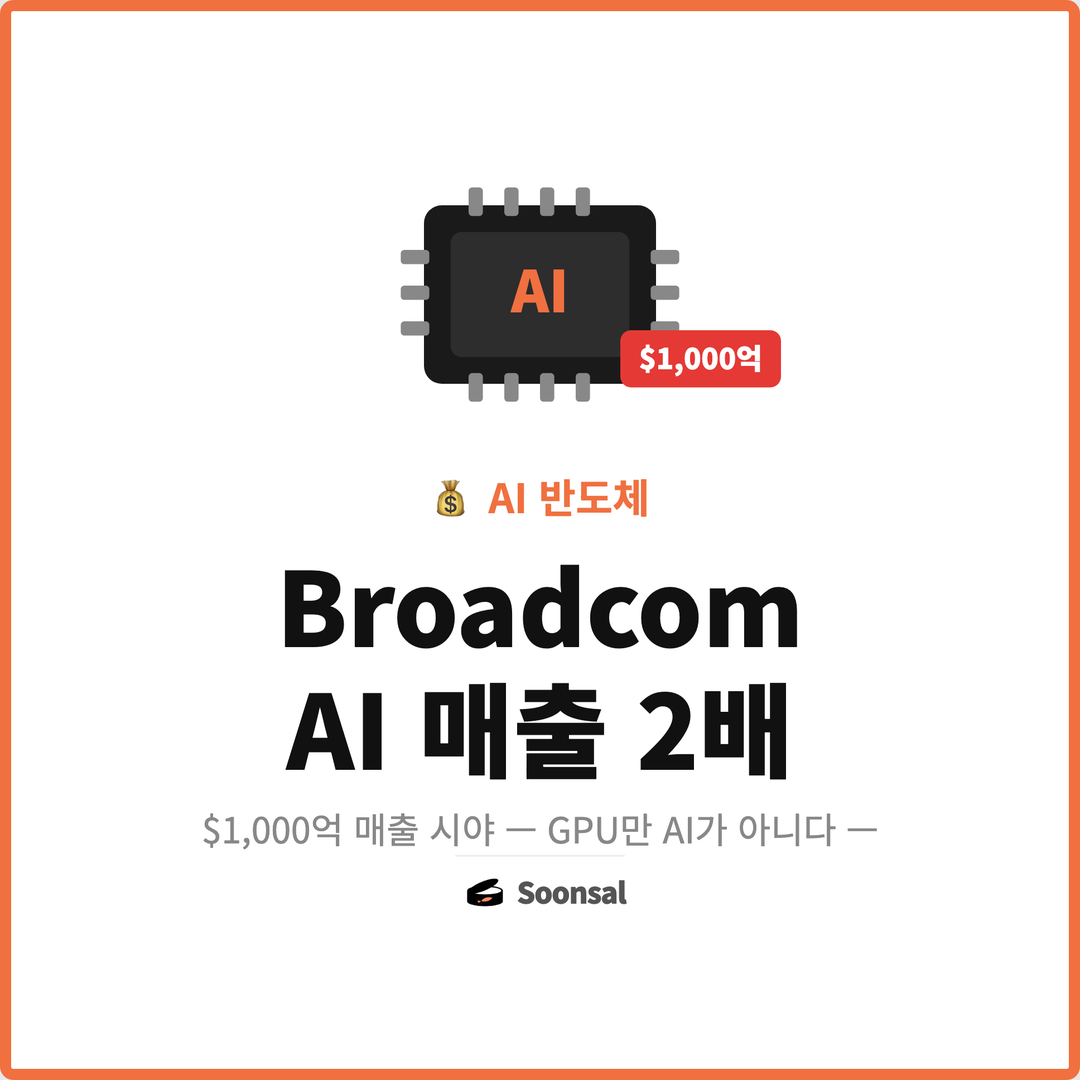
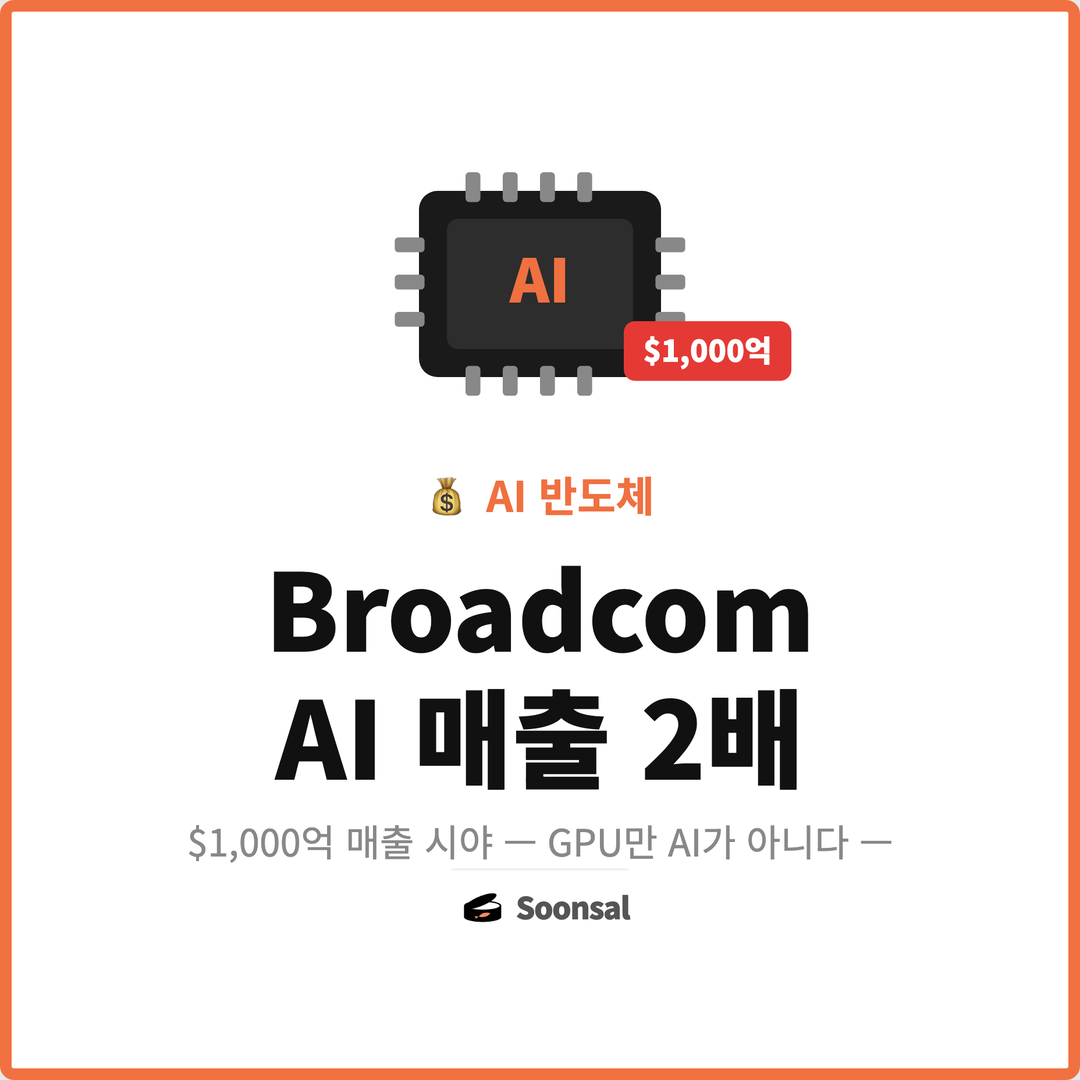
Add 순살카드뉴스 0307

Changed region(s): [[0.1528, 0.5194, 0.825, 0.8556], [0.3667, 0.1528, 0.7333, 0.3667], [0.3972, 0.4278, 0.6111, 0.4889]]

diff --git a/deploy.py b/deploy.py
@@ -542,10 +542,10 @@ def generate_cardnews_png(filepath, ctype):
                     device_scale_factor=4,
                 )
 
-            # ── 커버 카드(card_01): MacBook Chrome 최소 폭(500px) 시뮬레이션 ──
-            # 540px 카드가 500px viewport에서 좌우 잘려 콘텐츠가 꽉 차 보이는 효과
+            # ── 커버 카드(card_01): 480px viewport 시뮬레이션 ──
+            # 540px 카드가 480px viewport에서 좌우 잘려 콘텐츠가 꽉 차 보이는 효과
             page_cover = browser.new_page(
-                viewport={"width": 500, "height": 4000},
+                viewport={"width": 480, "height": 4000},
                 device_scale_factor=4,
             )
             page_cover.goto(f"file://{tmp_html_cover}")
@@ -561,8 +561,8 @@ def generate_cardnews_png(filepath, ctype):
                 final_png = out_dir / "card_01.png"
                 box = cover_cards[0].bounding_box()
                 if box:
-                    # 카드 중앙에서 500×500 영역 캡처 (좌우 여백 잘라냄)
-                    clip_size = min(box["width"], 500)
+                    # 카드 중앙에서 480×480 영역 캡처
+                    clip_size = min(box["width"], 480)
                     clip_x = box["x"] + (box["width"] - clip_size) / 2
                     page_cover.screenshot(
                         path=str(tmp_png),
